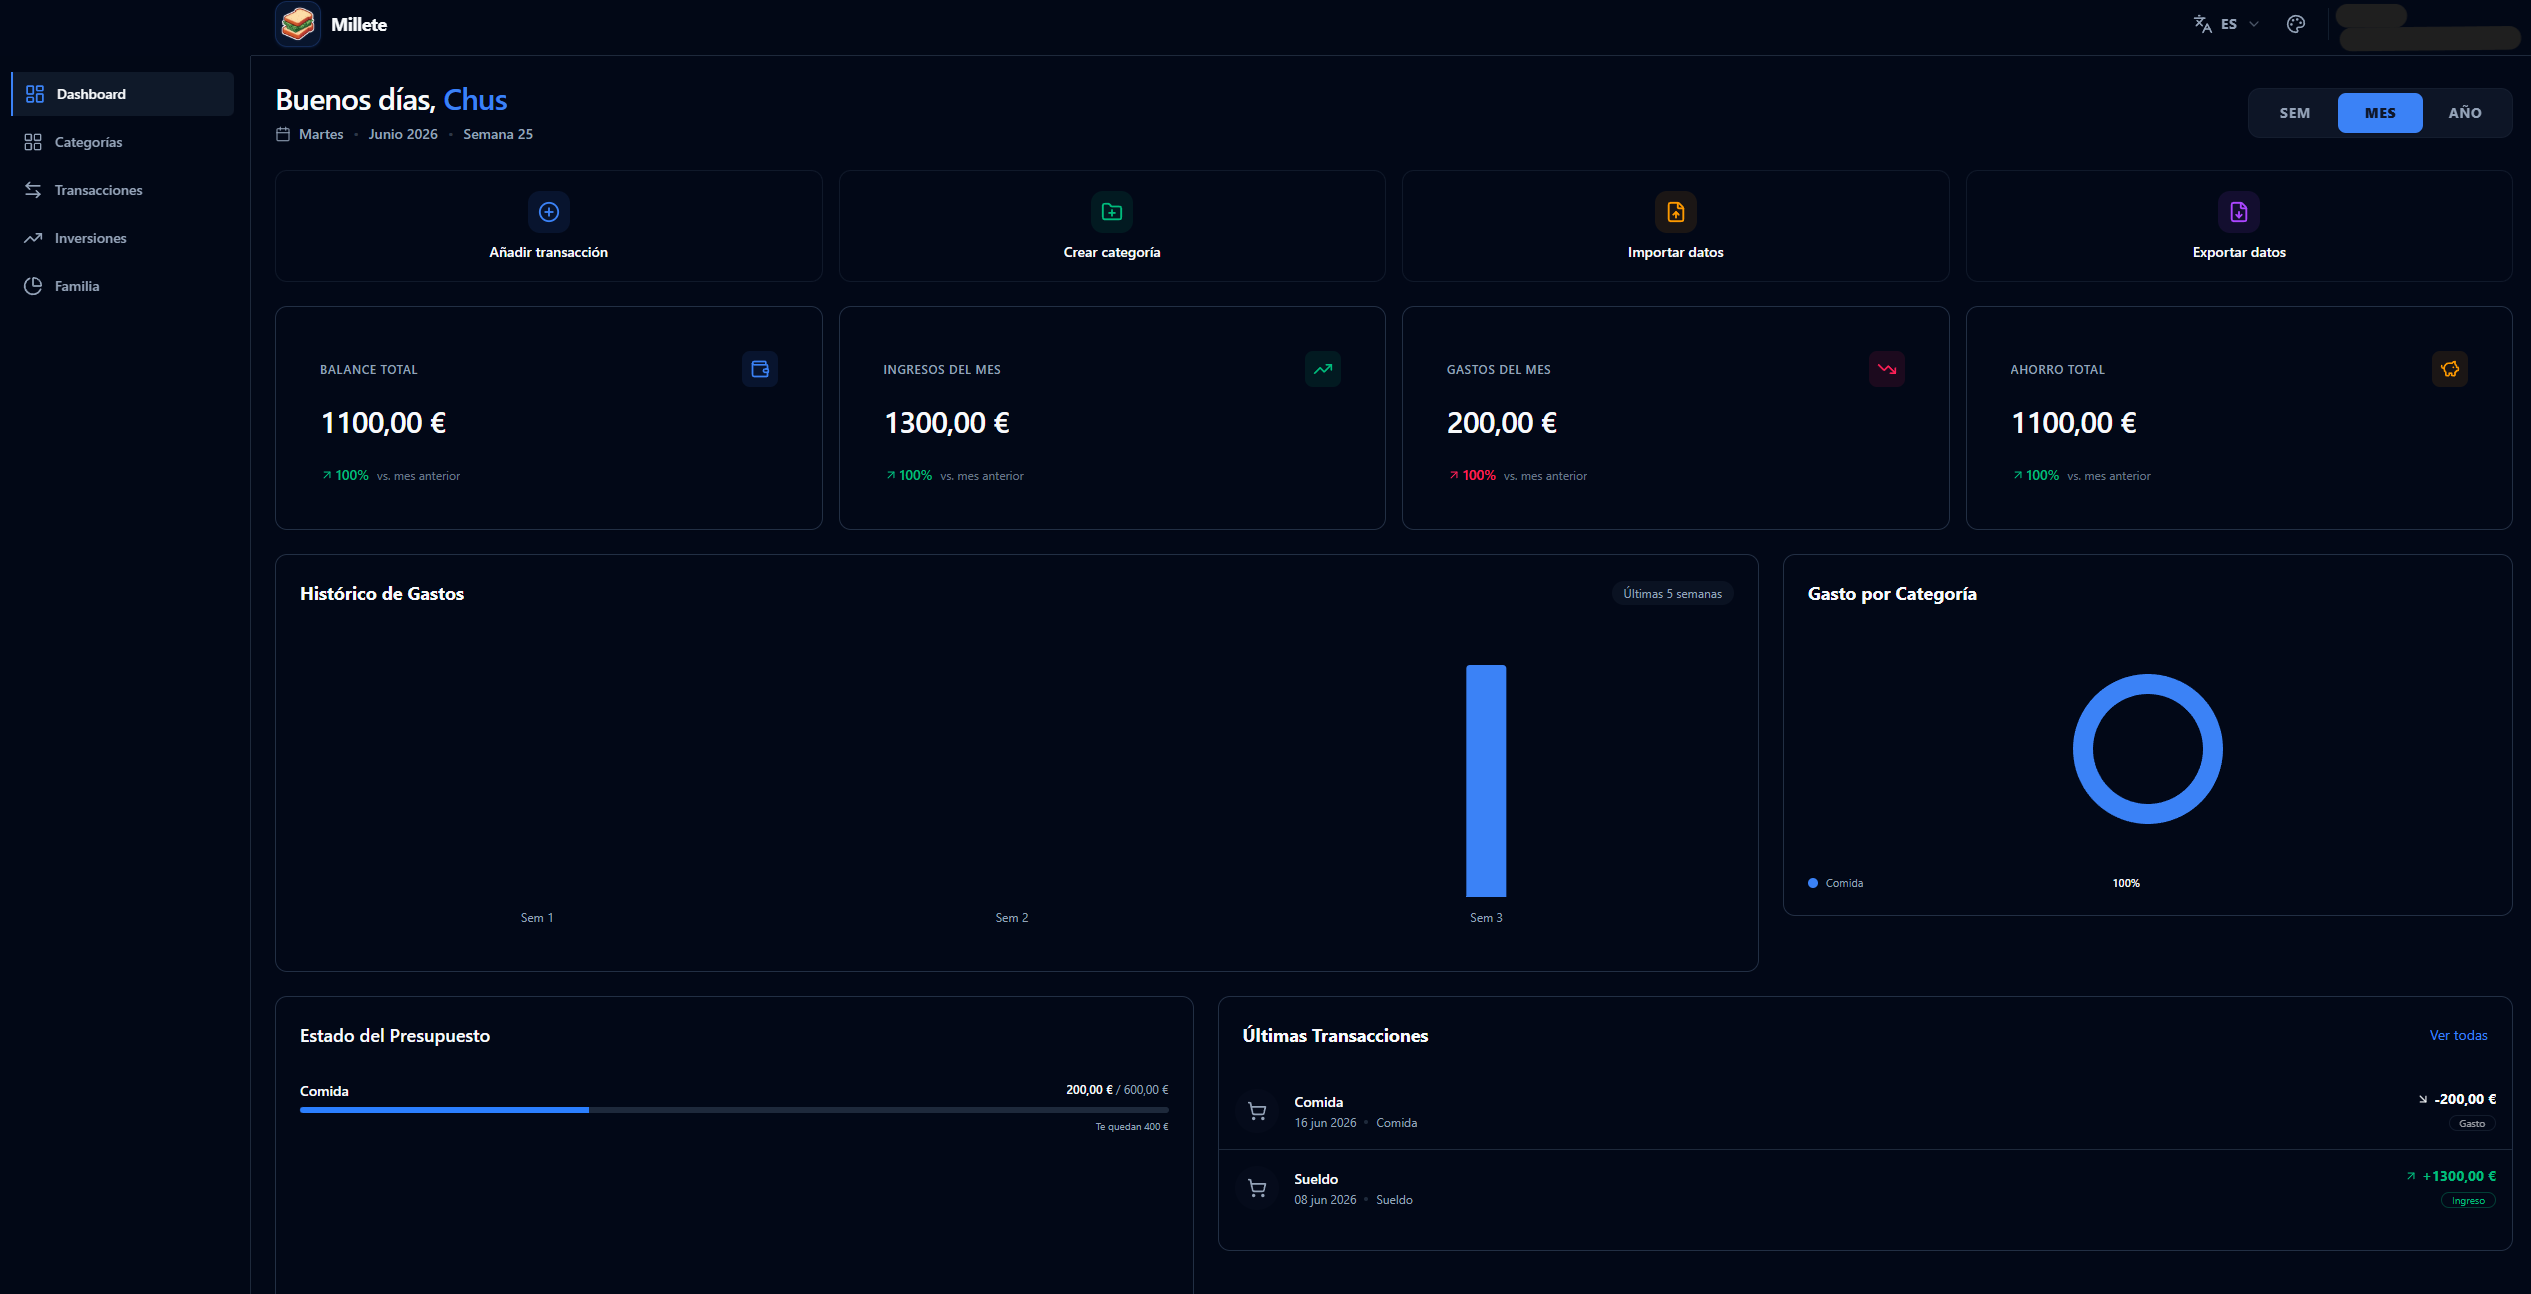
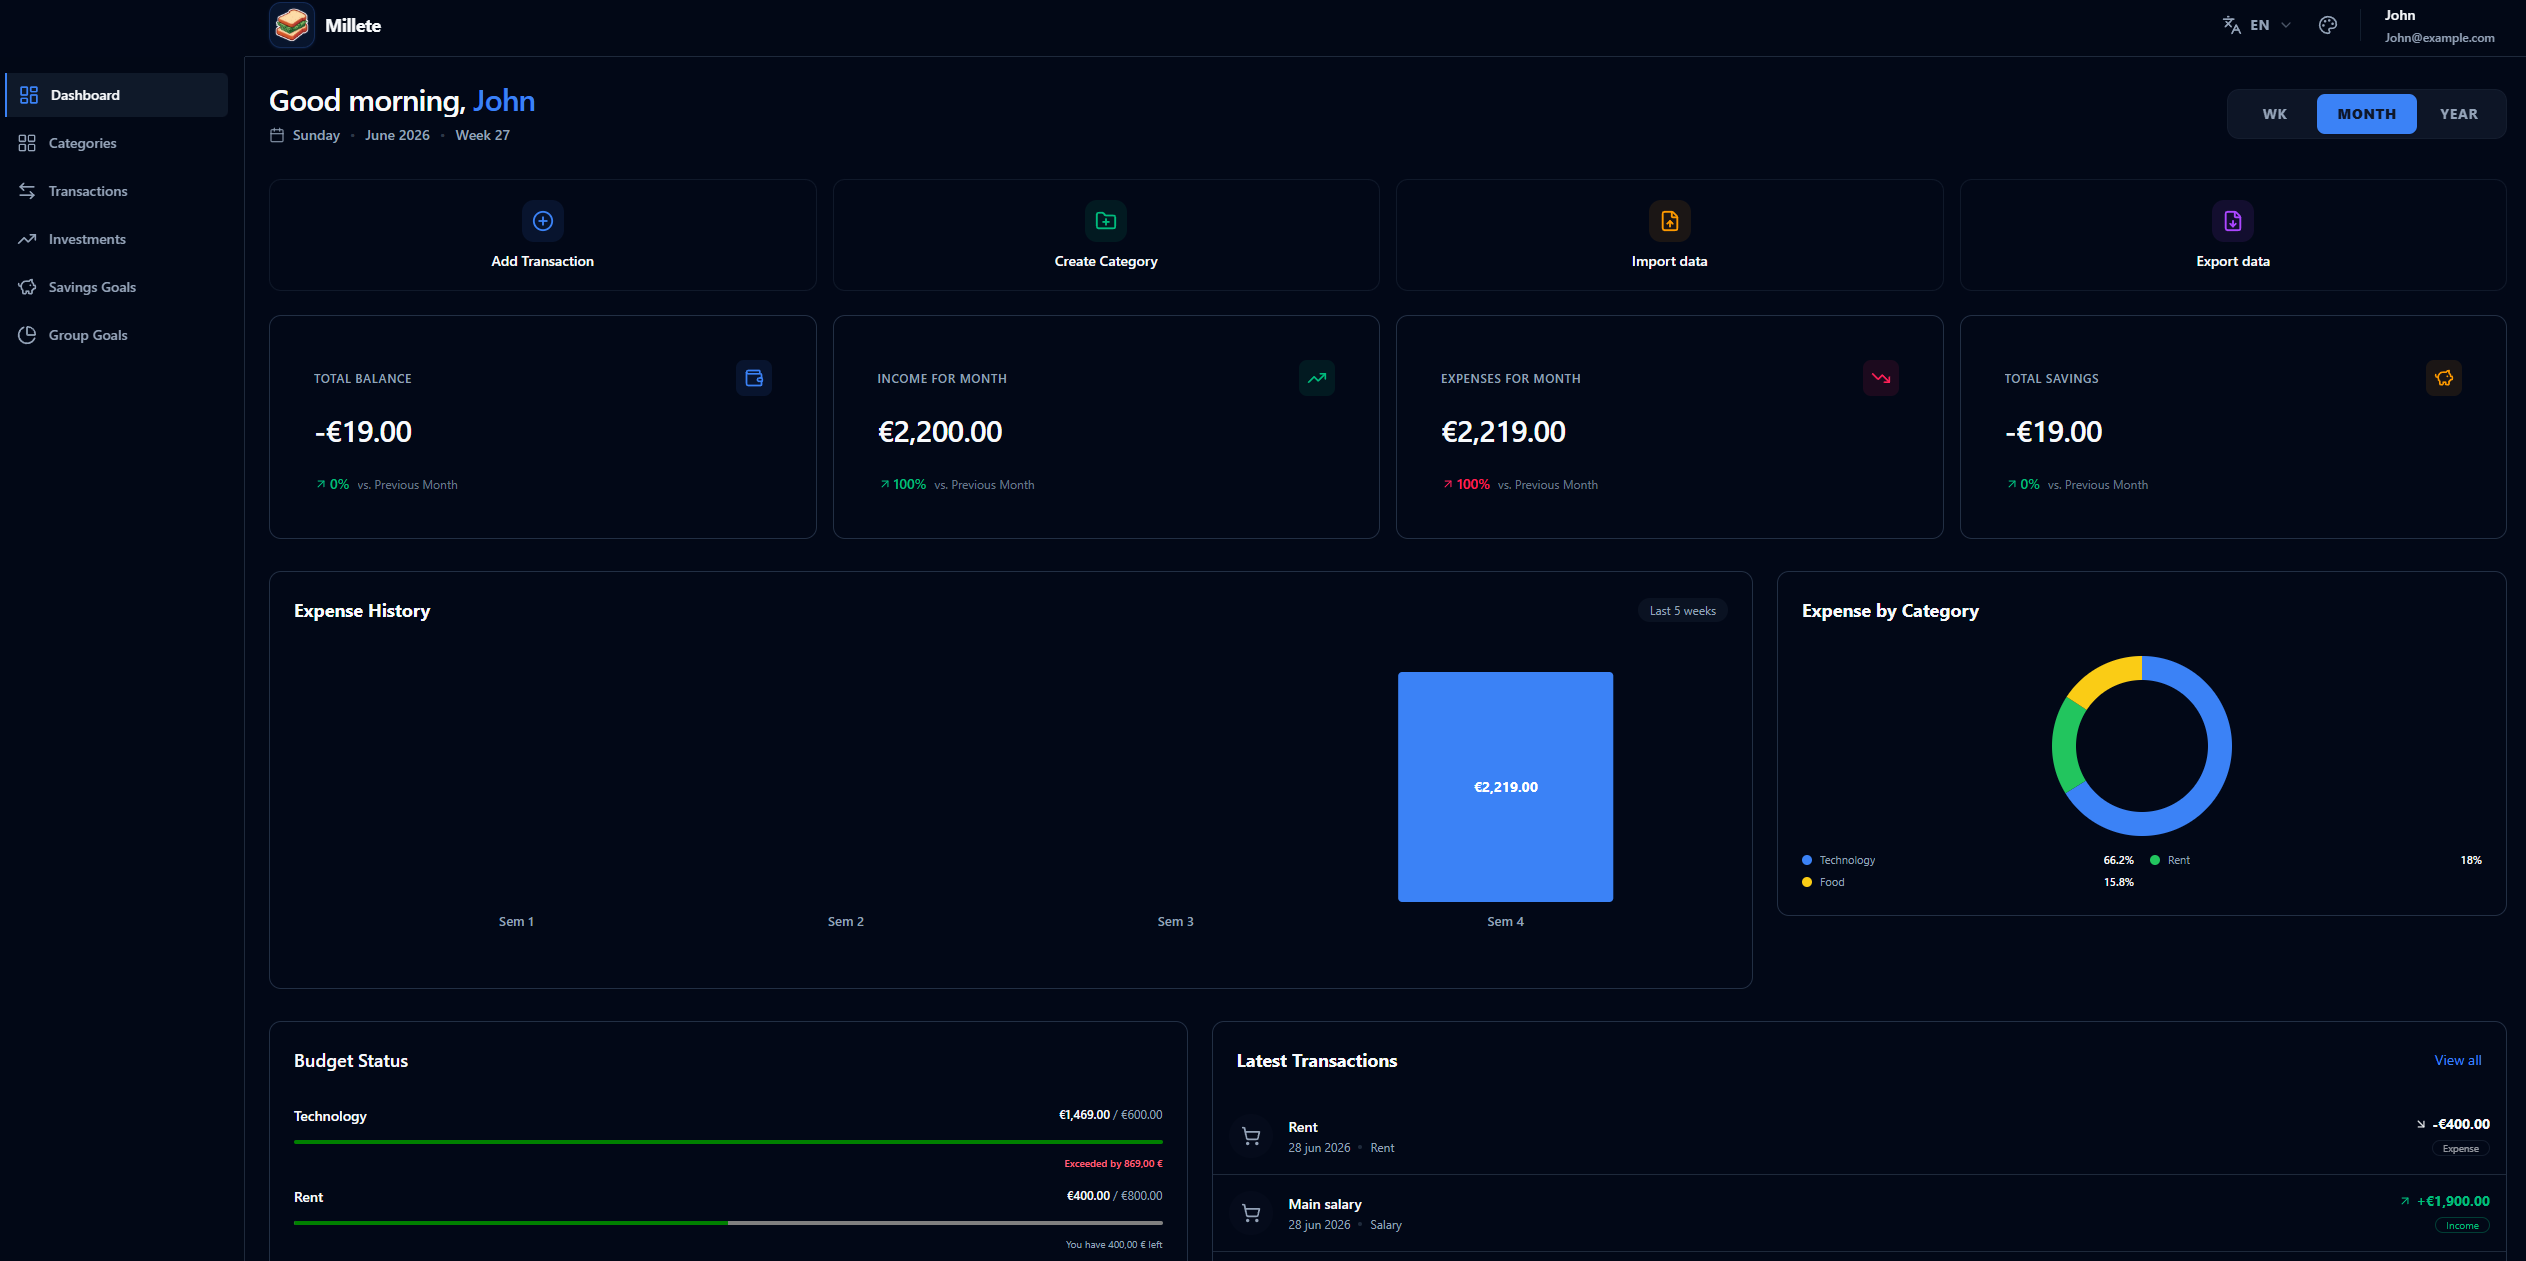
fix: mejorar readme

diff --git a/README.md b/README.md
@@ -16,8 +16,28 @@
 
 ## Preview & Interface
 
+### Core Dashboard
 <p align="center">
-  <img src="documentation/screenshots/dashboard-preview.png" alt="Millete Dashboard Preview" width="85%">
+  <img src="documentation/screenshots/dashboard-preview.png" alt="Millete Dashboard Preview" width="100%">
+</p>
+
+### Modules & Features
+
+| Secure Access | 📑 Ledger & Categories |
+|---|---|
+| **Login Interface** <br> <img src="documentation/screenshots/login-preview.png" width="100%"> | **Category Management** <br> <img src="documentation/screenshots/categories-preview.png" width="100%"> |
+| **Investment Monitoring** | **Financial Goals** |
+| **Portfolio Tracker** <br> <img src="documentation/screenshots/investments-preview.png" width="100%"> | **Saving Goals** <br> <img src="documentation/screenshots/Saving-goals-preview.png" width="100%"> |
+
+### Cash Flow & Value Analysis
+<p align="center">
+  <b>Detailed Transactions Management</b>
+  <img src="documentation/screenshots/transactions-preview.png" alt="Transactions Ledger" width="100%">
+</p>
+
+<p align="center">
+  <b>System Value Metrics (React Doctor)</b> <br>
+  <img src="documentation/screenshots/react-doctor-value.png" alt="React Doctor Value Analysis" width="60%">
 </p>
 
 ---
